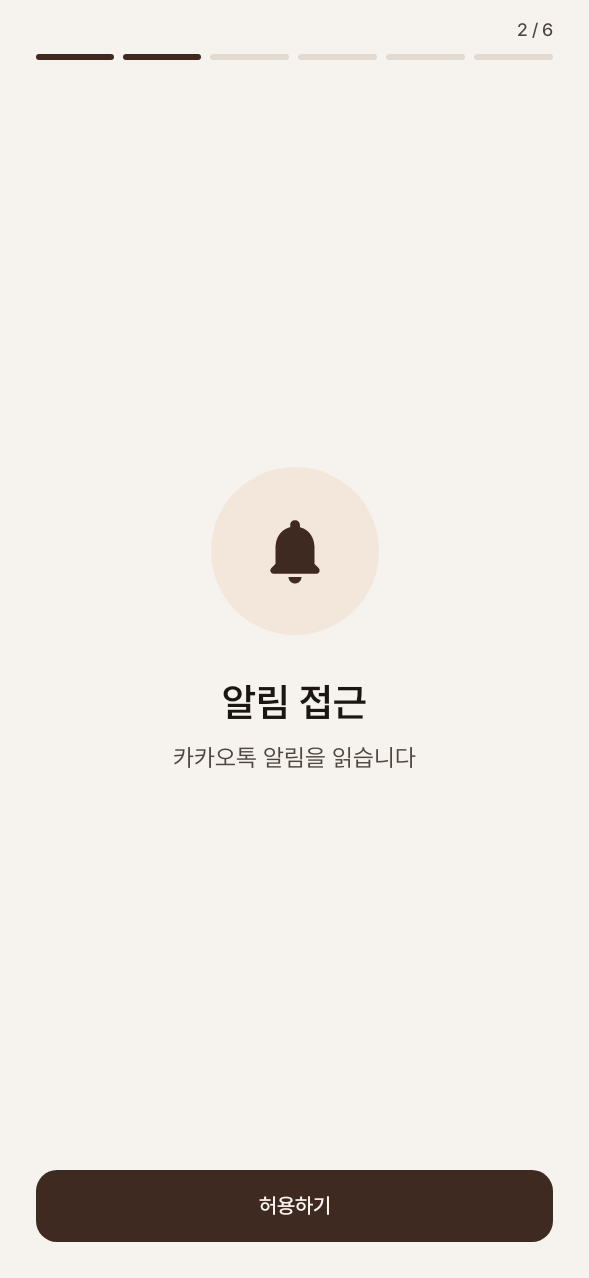
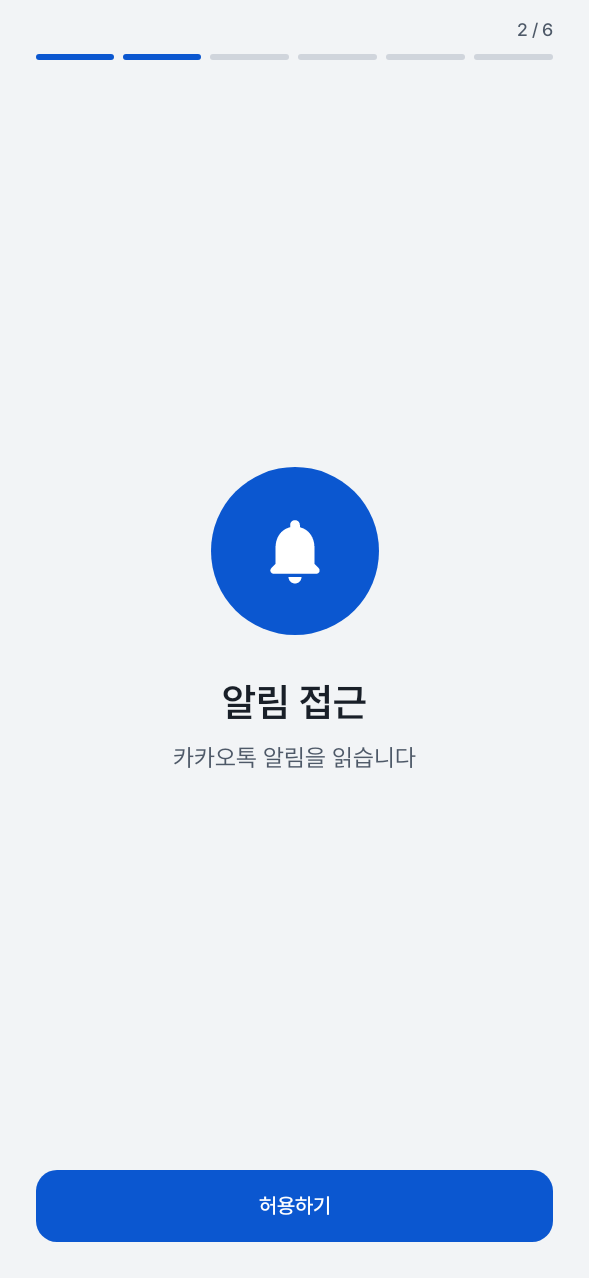
Replace the brown paper palette with a high-contrast blue accent.
Light mode uses a cool gray page, white cards, and ink text. Dark mode uses a true neutral black with lifted surfaces. One saturated blue is the accent, alarm red stays separate, and dynamic color stays off so Material purple cannot leak in.

diff --git a/app/src/main/java/app/bungaealert/ui/Theme.kt b/app/src/main/java/app/bungaealert/ui/Theme.kt
@@ -35,134 +35,159 @@ internal data class BungaeExtra(
     val shadow: Color,
 )
 
-private val Ink = Color(0xFF1C1612)
-private val InkMuted = Color(0xFF4E463F)
-private val Paper = Color(0xFFF6F3EE)
-private val PaperDeep = Color(0xFFEBE6DE)
-private val Card = Color(0xFFFFFCF9)
-private val Line = Color(0xFFE3DBD2)
-private val Accent = Color(0xFF3F2A22)
-private val OnAccent = Color(0xFFFFF8F3)
-private val AccentSoft = Color(0xFFF3E7DC)
+private val Ink = Color(0xFF191F28)
+private val InkMuted = Color(0xFF4E5968)
+private val Page = Color(0xFFF2F4F6)
+private val Card = Color(0xFFFFFFFF)
+private val Well = Color(0xFFE5E8EB)
+private val Line = Color(0xFFD0D5DC)
+private val Blue = Color(0xFF0B57D0)
+private val OnBlue = Color(0xFFFFFFFF)
+private val BlueSoft = Color(0xFFD7E6FF)
+private val InkSoft = Color(0xFF333D4B)
 
-private val NightInk = Color(0xFFF6F1EA)
-private val NightMuted = Color(0xFFCDBFB2)
-private val NightPaper = Color(0xFF12100E)
-private val NightDeep = Color(0xFF2A241F)
-private val NightCard = Color(0xFF1C1916)
-private val NightLine = Color(0xFF3A332C)
-private val NightAccent = Color(0xFFE8D3C0)
-private val NightOnAccent = Color(0xFF1A120E)
-private val NightSoft = Color(0xFF3A2E26)
+private val NightInk = Color(0xFFF5F7FA)
+private val NightMuted = Color(0xFFB0B8C2)
+private val NightPage = Color(0xFF0E1013)
+private val NightCard = Color(0xFF1A1D22)
+private val NightWell = Color(0xFF2C3138)
+private val NightLine = Color(0xFF3E4650)
+private val NightBlue = Color(0xFF4C8DFF)
+private val NightOnBlue = Color(0xFF07111F)
+private val NightBlueSoft = Color(0xFF1A3E78)
 
 private val lightExtra = BungaeExtra(
-    good = Color(0xFF1E6B45),
-    warning = Color(0xFF8A4B12),
-    onWarning = Color(0xFFFFF8F3),
-    danger = Color(0xFFB42318),
-    blocked = Color(0xFF3F3A36),
-    onBlocked = Color(0xFFFFF8F3),
-    onBlockedMuted = Color(0xFFE7D9CF),
-    meetupBg = Color(0xFFF3E1C8),
-    meetupFg = Color(0xFF6B3E12),
-    giveawayBg = Accent,
-    giveawayFg = OnAccent,
-    shadow = Color(0x141C1612),
+    good = Color(0xFF067647),
+    warning = Color(0xFFC2410C),
+    onWarning = Color.White,
+    danger = Color(0xFFD92D20),
+    blocked = Ink,
+    onBlocked = Color.White,
+    onBlockedMuted = Color(0xFFD0D5DC),
+    meetupBg = Blue,
+    meetupFg = OnBlue,
+    giveawayBg = Color(0xFFE11D2E),
+    giveawayFg = Color.White,
+    shadow = Color(0x14191F28),
 )
 
 private val darkExtra = BungaeExtra(
-    good = Color(0xFF8ED4AE),
-    warning = Color(0xFF8A4B12),
-    onWarning = Color(0xFFFFF8F3),
-    danger = Color(0xFFFFB4AB),
-    blocked = Color(0xFF2C2824),
+    good = Color(0xFF3DDC97),
+    warning = Color(0xFFC2410C),
+    onWarning = Color.White,
+    danger = Color(0xFFFF6B6B),
+    blocked = Color(0xFF2A3038),
     onBlocked = NightInk,
-    onBlockedMuted = Color(0xFFD9CBBF),
-    meetupBg = Color(0xFF3A2C22),
-    meetupFg = Color(0xFFF0D7C0),
-    giveawayBg = NightAccent,
-    giveawayFg = NightOnAccent,
+    onBlockedMuted = NightMuted,
+    meetupBg = NightBlue,
+    meetupFg = NightOnBlue,
+    giveawayBg = Color(0xFFE11D2E),
+    giveawayFg = Color.White,
     shadow = Color(0x00000000),
 )
 
 internal val LocalBungaeExtra = staticCompositionLocalOf { lightExtra }
 
 private val lightScheme = lightColorScheme(
-    primary = Accent,
-    onPrimary = OnAccent,
-    primaryContainer = AccentSoft,
-    onPrimaryContainer = Accent,
-    inversePrimary = AccentSoft,
-    secondary = Accent,
-    onSecondary = OnAccent,
-    secondaryContainer = AccentSoft,
-    onSecondaryContainer = Accent,
-    tertiary = Accent,
-    onTertiary = OnAccent,
-    tertiaryContainer = AccentSoft,
-    onTertiaryContainer = Accent,
-    background = Paper,
+    primary = Blue,
+    onPrimary = OnBlue,
+    primaryContainer = BlueSoft,
+    onPrimaryContainer = Color(0xFF062E6B),
+    inversePrimary = NightBlue,
+    secondary = InkSoft,
+    onSecondary = OnBlue,
+    secondaryContainer = Color(0xFFE8ECF1),
+    onSecondaryContainer = Ink,
+    tertiary = InkSoft,
+    onTertiary = OnBlue,
+    tertiaryContainer = Color(0xFFE8ECF1),
+    onTertiaryContainer = Ink,
+    background = Page,
     onBackground = Ink,
     surface = Card,
     onSurface = Ink,
-    surfaceVariant = PaperDeep,
+    surfaceVariant = Well,
     onSurfaceVariant = InkMuted,
     surfaceTint = Color.Transparent,
     inverseSurface = Ink,
-    inverseOnSurface = Paper,
-    error = Color(0xFFB42318),
+    inverseOnSurface = Page,
+    error = Color(0xFFD92D20),
     onError = Color.White,
-    errorContainer = Color(0xFFF9E4E1),
-    onErrorContainer = Color(0xFF6B120C),
+    errorContainer = Color(0xFFFFE4E1),
+    onErrorContainer = Color(0xFF7A1A12),
     outline = Line,
-    outlineVariant = Line,
+    outlineVariant = Well,
     scrim = Color(0x99000000),
     surfaceBright = Card,
-    surfaceDim = PaperDeep,
-    surfaceContainer = Card,
-    surfaceContainerHigh = PaperDeep,
-    surfaceContainerHighest = PaperDeep,
-    surfaceContainerLow = Paper,
+    surfaceDim = Well,
     surfaceContainerLowest = Card,
+    surfaceContainerLow = Color(0xFFF7F8FA),
+    surfaceContainer = Card,
+    surfaceContainerHigh = Color(0xFFEEF1F4),
+    surfaceContainerHighest = Well,
+    primaryFixed = Blue,
+    primaryFixedDim = Color(0xFF0842A0),
+    onPrimaryFixed = OnBlue,
+    onPrimaryFixedVariant = BlueSoft,
+    secondaryFixed = InkSoft,
+    secondaryFixedDim = Ink,
+    onSecondaryFixed = OnBlue,
+    onSecondaryFixedVariant = Color(0xFFE8ECF1),
+    tertiaryFixed = InkSoft,
+    tertiaryFixedDim = Ink,
+    onTertiaryFixed = OnBlue,
+    onTertiaryFixedVariant = Color(0xFFE8ECF1),
 )
 
 private val darkScheme = darkColorScheme(
-    primary = NightAccent,
-    onPrimary = NightOnAccent,
-    primaryContainer = NightSoft,
-    onPrimaryContainer = NightAccent,
-    inversePrimary = Accent,
-    secondary = NightAccent,
-    onSecondary = NightOnAccent,
-    secondaryContainer = NightSoft,
-    onSecondaryContainer = NightAccent,
-    tertiary = NightAccent,
-    onTertiary = NightOnAccent,
-    tertiaryContainer = NightSoft,
-    onTertiaryContainer = NightAccent,
-    background = NightPaper,
+    primary = NightBlue,
+    onPrimary = NightOnBlue,
+    primaryContainer = NightBlueSoft,
+    onPrimaryContainer = BlueSoft,
+    inversePrimary = Blue,
+    secondary = Color(0xFFC5CDD6),
+    onSecondary = NightPage,
+    secondaryContainer = Color(0xFF2A3038),
+    onSecondaryContainer = NightInk,
+    tertiary = Color(0xFFC5CDD6),
+    onTertiary = NightPage,
+    tertiaryContainer = Color(0xFF2A3038),
+    onTertiaryContainer = NightInk,
+    background = NightPage,
     onBackground = NightInk,
     surface = NightCard,
     onSurface = NightInk,
-    surfaceVariant = NightDeep,
+    surfaceVariant = NightWell,
     onSurfaceVariant = NightMuted,
     surfaceTint = Color.Transparent,
     inverseSurface = NightInk,
-    inverseOnSurface = NightPaper,
-    error = Color(0xFFFFB4AB),
-    onError = Color(0xFF690005),
-    errorContainer = Color(0xFF4A1C18),
-    onErrorContainer = Color(0xFFFFB4AB),
+    inverseOnSurface = NightPage,
+    error = Color(0xFFFF6B6B),
+    onError = Color(0xFF3A0D10),
+    errorContainer = Color(0xFF4A1518),
+    onErrorContainer = Color(0xFFFFD4D2),
     outline = NightLine,
-    outlineVariant = NightLine,
+    outlineVariant = NightWell,
     scrim = Color(0xCC000000),
-    surfaceBright = NightDeep,
-    surfaceDim = NightPaper,
+    surfaceBright = NightWell,
+    surfaceDim = NightPage,
+    surfaceContainerLowest = NightPage,
+    surfaceContainerLow = Color(0xFF14171B),
     surfaceContainer = NightCard,
-    surfaceContainerHigh = NightDeep,
-    surfaceContainerHighest = NightDeep,
-    surfaceContainerLow = NightPaper,
-    surfaceContainerLowest = NightCard,
+    surfaceContainerHigh = Color(0xFF24282E),
+    surfaceContainerHighest = NightWell,
+    primaryFixed = Blue,
+    primaryFixedDim = Color(0xFF0842A0),
+    onPrimaryFixed = OnBlue,
+    onPrimaryFixedVariant = BlueSoft,
+    secondaryFixed = InkSoft,
+    secondaryFixedDim = Ink,
+    onSecondaryFixed = OnBlue,
+    onSecondaryFixedVariant = Color(0xFFE8ECF1),
+    tertiaryFixed = InkSoft,
+    tertiaryFixedDim = Ink,
+    onTertiaryFixed = OnBlue,
+    onTertiaryFixedVariant = Color(0xFFE8ECF1),
 )
 
 private val Pretendard = FontFamily(
@@ -216,6 +241,8 @@ fun BungaeTheme(
     darkTheme: Boolean = isSystemInDarkTheme(),
     content: @Composable () -> Unit,
 ) {
+    // Dynamic color stays off. A system palette can inject purple, and every
+    // scheme slot above is set so Material's default roles cannot leak in.
     val scheme = if (darkTheme) darkScheme else lightScheme
     val extra = if (darkTheme) darkExtra else lightExtra
     CompositionLocalProvider(LocalBungaeExtra provides extra) {

diff --git a/app/src/main/java/app/bungaealert/ui/RulesScreen.kt b/app/src/main/java/app/bungaealert/ui/RulesScreen.kt
@@ -25,6 +25,7 @@ import androidx.compose.material.icons.Icons
 import androidx.compose.material.icons.rounded.Close
 import androidx.compose.material.icons.rounded.Tune
 import androidx.compose.material3.AlertDialog
+import androidx.compose.material3.ButtonDefaults
 import androidx.compose.material3.ExperimentalMaterial3Api
 import androidx.compose.material3.Icon
 import androidx.compose.material3.MaterialTheme
@@ -186,14 +187,14 @@ private fun RuleRow(rule: WatchRule, onToggle: (Boolean) -> Unit, onEdit: () -> 
                 Modifier
                     .size(40.dp)
                     .clip(CircleShape)
-                    .background(MaterialTheme.colorScheme.primaryContainer)
+                    .background(MaterialTheme.colorScheme.primary)
                     .clickable(role = Role.Button, onClick = onEdit),
                 contentAlignment = Alignment.Center,
             ) {
                 Text(
                     rule.pattern.trim().firstOrNull()?.toString() ?: "·",
                     style = MaterialTheme.typography.titleMedium,
-                    color = MaterialTheme.colorScheme.primary,
+                    color = MaterialTheme.colorScheme.onPrimary,
                 )
             }
             Column(
@@ -328,7 +329,10 @@ fun RuleEditor(
                 }
             },
             dismissButton = {
-                TextButton(onClick = { confirmDelete = false }) { Text("취소") }
+                TextButton(
+                    onClick = { confirmDelete = false },
+                    colors = ButtonDefaults.textButtonColors(contentColor = MaterialTheme.colorScheme.onSurface),
+                ) { Text("취소") }
             },
         )
     }

diff --git a/app/src/main/java/app/bungaealert/ui/Components.kt b/app/src/main/java/app/bungaealert/ui/Components.kt
@@ -144,14 +144,14 @@ private fun BungaeBottomBar(selected: String, onTab: (String) -> Unit) {
                     Box(
                         Modifier
                             .clip(RoundedCornerShape(999.dp))
-                            .background(if (active) MaterialTheme.colorScheme.primaryContainer else Color.Transparent)
+                            .background(if (active) MaterialTheme.colorScheme.primary else Color.Transparent)
                             .padding(horizontal = 16.dp, vertical = 4.dp),
                     ) {
                         Icon(
                             tab.icon,
                             contentDescription = null,
                             modifier = Modifier.size(22.dp),
-                            tint = if (active) MaterialTheme.colorScheme.primary else MaterialTheme.colorScheme.onSurfaceVariant,
+                            tint = if (active) MaterialTheme.colorScheme.onPrimary else MaterialTheme.colorScheme.onSurfaceVariant,
                         )
                     }
                     Spacer(Modifier.height(2.dp))

diff --git a/app/src/main/java/app/bungaealert/ui/AlarmScreen.kt b/app/src/main/java/app/bungaealert/ui/AlarmScreen.kt
@@ -40,11 +40,11 @@ import androidx.compose.ui.text.style.TextOverflow
 import androidx.compose.ui.unit.dp
 import androidx.compose.ui.unit.sp
 
-private val AlarmTop = Color(0xFFC43428)
-private val AlarmMid = Color(0xFFA51C16)
-private val AlarmBottom = Color(0xFF7A120E)
-private val AlarmInk = Color(0xFFFFF8F4)
-private val AlarmButton = Color(0xFF1A120E)
+private val AlarmTop = Color(0xFFDC1E28)
+private val AlarmMid = Color(0xFFC4161E)
+private val AlarmBottom = Color(0xFF8E0E14)
+private val AlarmInk = Color(0xFFFFFFFF)
+private val AlarmButton = Color(0xFF111418)
 private val Pill = RoundedCornerShape(28.dp)
 
 @Composable
@@ -101,7 +101,7 @@ fun AlarmScreen(
         Text(
             copy.eyebrow,
             style = MaterialTheme.typography.labelLarge,
-            color = Color(0xFFFFE8E4),
+            color = Color.White.copy(alpha = 0.86f),
             textAlign = TextAlign.Center,
         )
         Spacer(Modifier.height(8.dp))

diff --git a/app/src/main/java/app/bungaealert/ui/OnboardingScreen.kt b/app/src/main/java/app/bungaealert/ui/OnboardingScreen.kt
@@ -239,10 +239,10 @@ fun OnboardingScreen(
         ) {
             Spacer(Modifier.height(24.dp))
             Box(
-                Modifier.size(112.dp).clip(CircleShape).background(MaterialTheme.colorScheme.primaryContainer),
+                Modifier.size(112.dp).clip(CircleShape).background(MaterialTheme.colorScheme.primary),
                 contentAlignment = Alignment.Center,
             ) {
-                Icon(icon, contentDescription = null, modifier = Modifier.size(52.dp), tint = MaterialTheme.colorScheme.primary)
+                Icon(icon, contentDescription = null, modifier = Modifier.size(52.dp), tint = MaterialTheme.colorScheme.onPrimary)
             }
             Spacer(Modifier.height(28.dp))
             Text(

diff --git a/app/src/main/java/app/bungaealert/ui/HelpScreen.kt b/app/src/main/java/app/bungaealert/ui/HelpScreen.kt
@@ -148,9 +148,9 @@ private fun HelpCard(block: HelpBlock) {
                 modifier = Modifier
                     .size(36.dp)
                     .clip(CircleShape)
-                    .background(MaterialTheme.colorScheme.primaryContainer)
+                    .background(MaterialTheme.colorScheme.primary)
                     .padding(8.dp),
-                tint = MaterialTheme.colorScheme.primary,
+                tint = MaterialTheme.colorScheme.onPrimary,
             )
             Spacer(Modifier.width(12.dp))
             Text(block.title, style = MaterialTheme.typography.titleMedium, color = MaterialTheme.colorScheme.onSurface)
